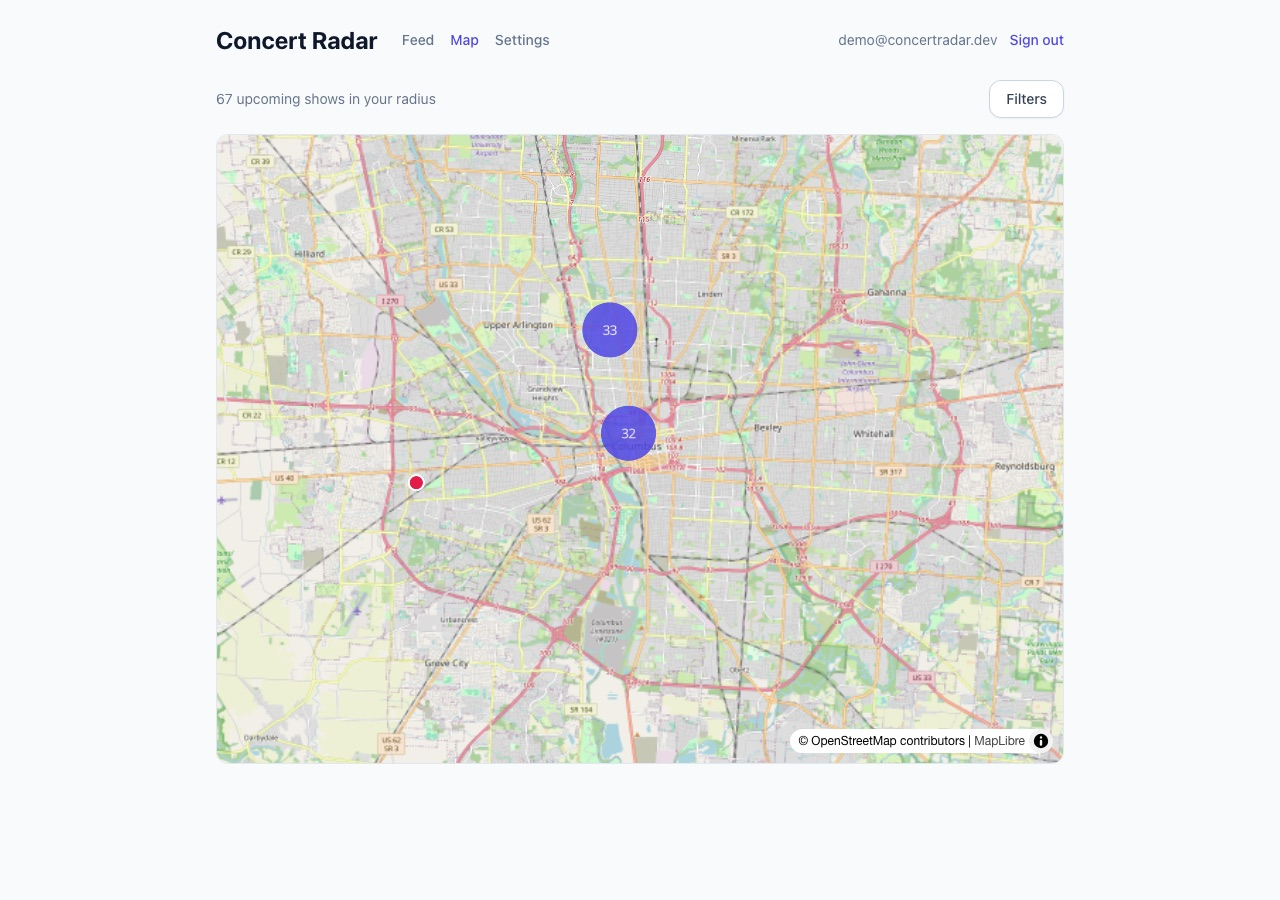
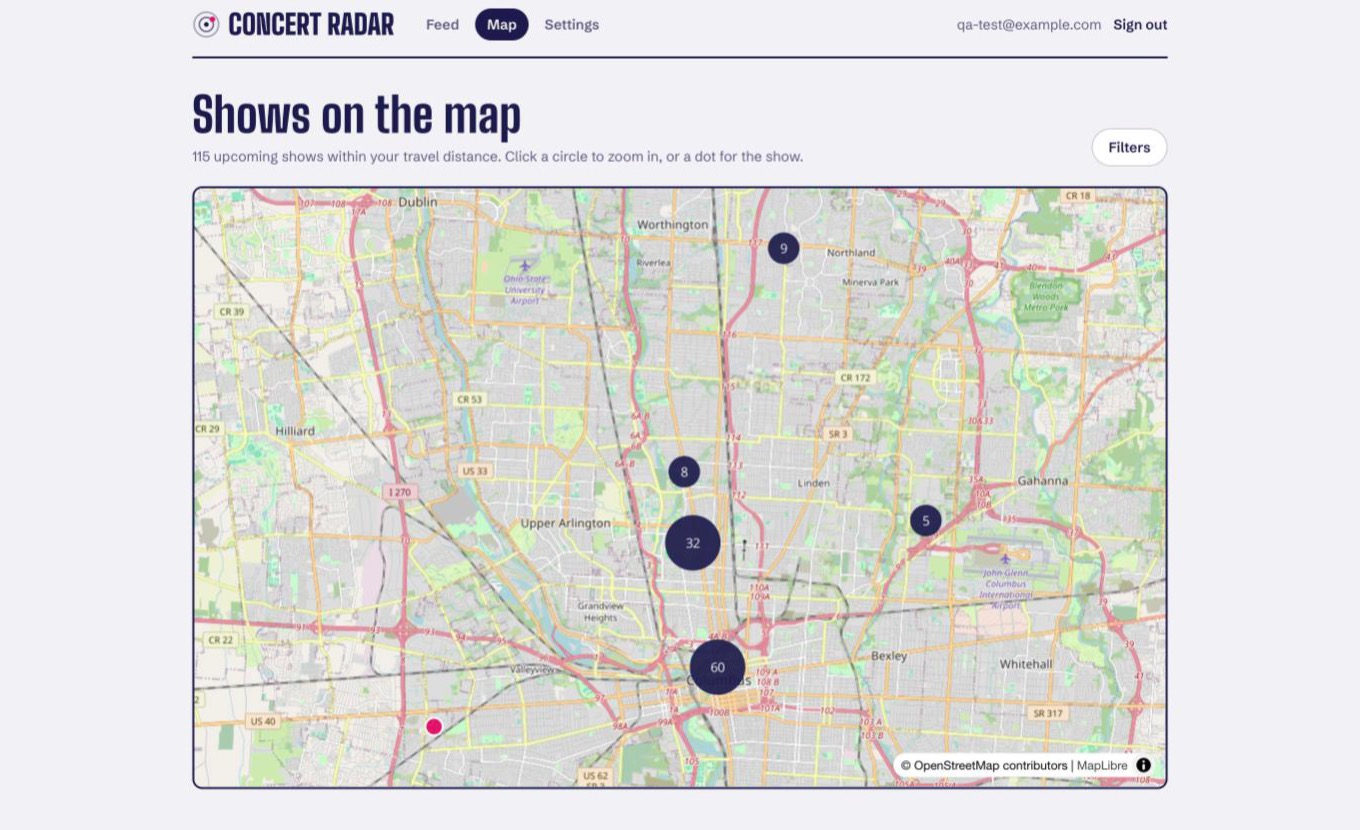
Replace the README screenshots with the new design
The feed, map, show, and artist screenshots still showed the old layout.
These were taken from the Vercel deployment against the live API.

diff --git a/README.md b/README.md
@@ -13,11 +13,11 @@ about it: live in the app and in a daily email digest.
 with any email address; there is no password. The API runs on one small AWS host paid for with
 free-plan credits, so the demo may be offline.
 
-![Ranked feed of upcoming shows near Columbus, OH](docs/images/feed.png)
+![Ranked feed of upcoming shows near Columbus, OH](docs/images/feed.jpg)
 
-| Clustered map of every show in range | Event page | Artist page with similar artists |
+| Every show in range on a clustered map | A show, with its lineup and venue | An artist, with similar artists |
 |---|---|---|
-| ![Map](docs/images/map.jpg) | ![Event](docs/images/event.png) | ![Artist](docs/images/artist.png) |
+| ![Map](docs/images/map.jpg) | ![Event](docs/images/event.jpg) | ![Artist](docs/images/artist.jpg) |
 
 ## How it works
 
